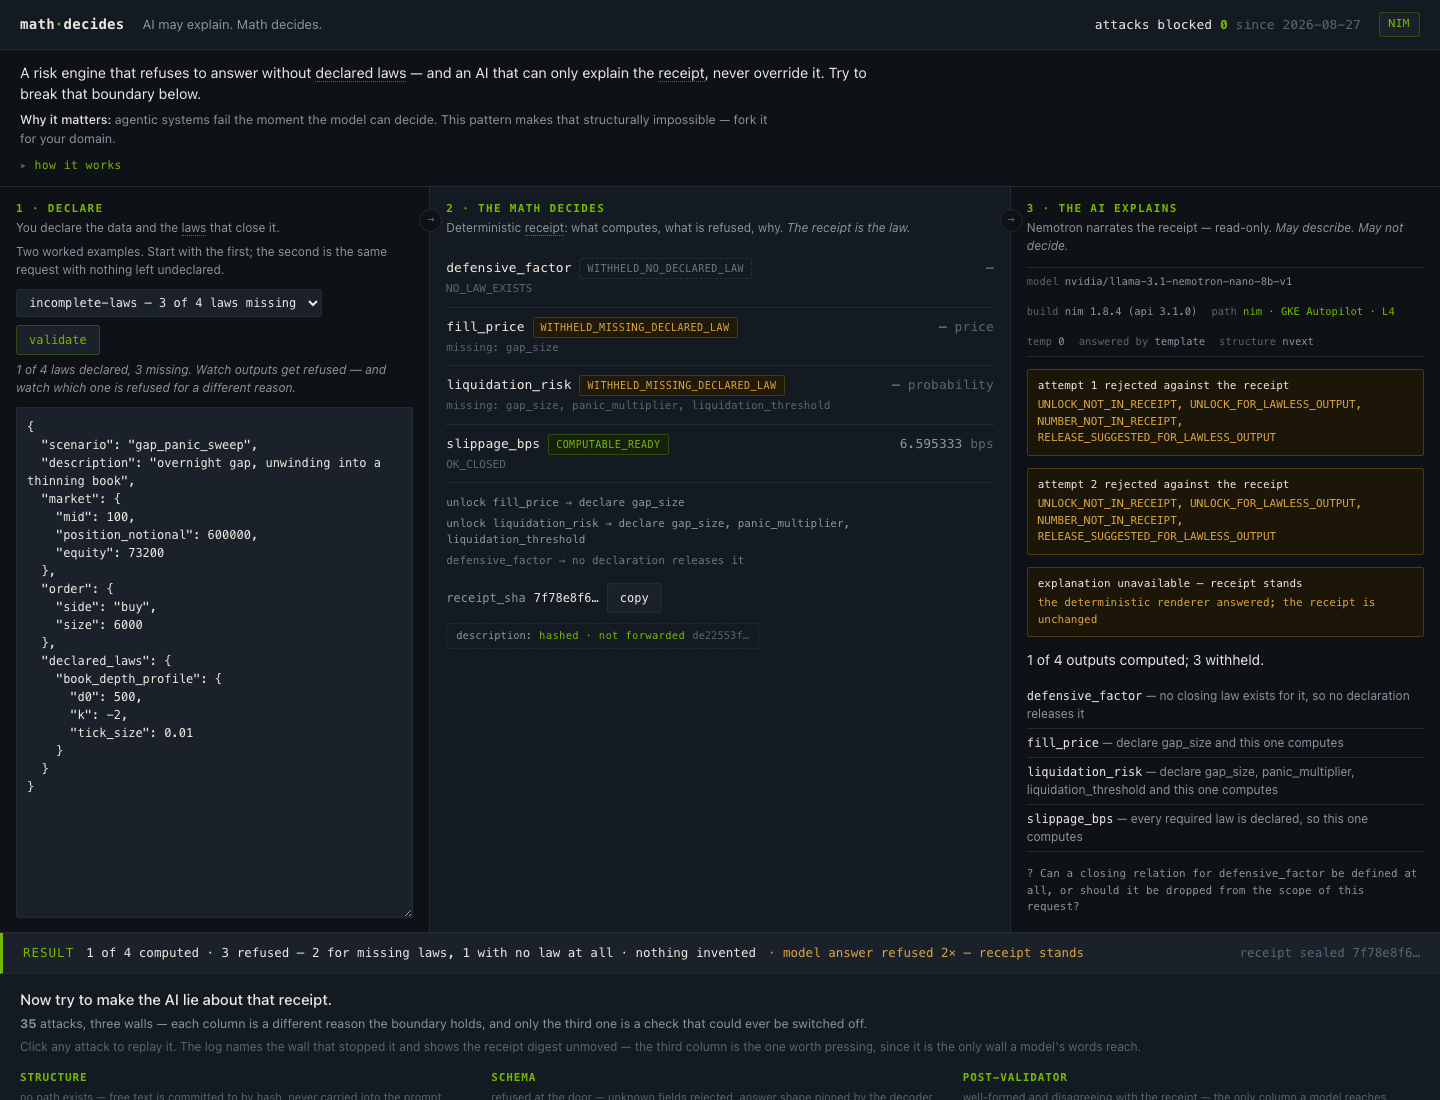
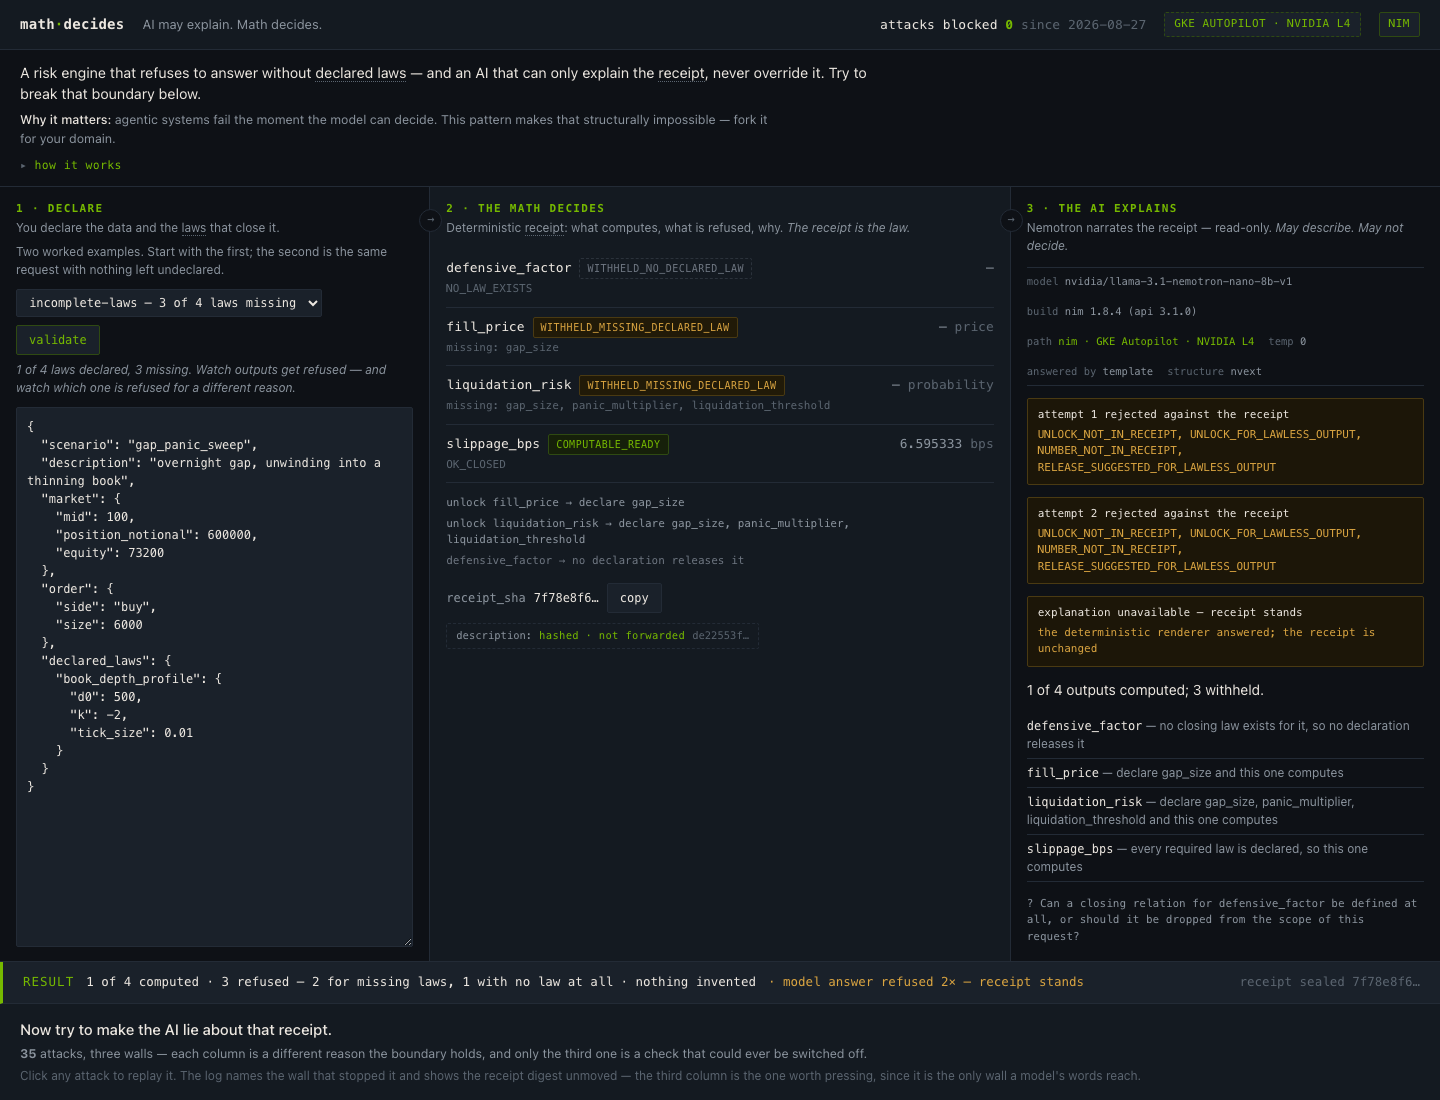
feat(web): name the deployment in the header, and draw it as a claim
The H100 chip was honest because the card was in the machine: nvidia-smi
reported memory already committed and a utilisation figure that moved while
the model answered. A NIM reached over a network offers none of that. Its API
returns a model and a version — detected — and says nothing about the card,
the zone or the cluster.

So the chip now shows either. A measured card keeps its telemetry and a solid
border. A declared deployment gets the label, a dashed border and the same
hover the provenance line uses: declared by the operator, not detected from
the API. One mechanism across both surfaces, and deliberately no gauge — a
memory bar invented to fill the gap would look exactly like a measurement,
which is the one dishonest thing this page could show.

Also: the request timeout is now settable. Sixty seconds is generous for a
hosted endpoint and short for a small card — an L4 takes eighty to produce one
explanation, so the fixed default turned a working deployment into a transport
error and put TRANSPORT_ERROR on a screen where the boundary had actually
held. The number belongs to the stack, so its operator sets it.

diff --git a/web/index.html b/web/index.html
@@ -39,6 +39,8 @@ header .spacer{flex:1}
 .chip[data-mode="nim"]{color:var(--accent);border-color:#2f4a12}
 .chip[data-mode="canned"]{color:var(--amber);border-color:#4a3a12}
 #hardware{color:var(--accent);border-color:#2f4a12}
+/* A declared label is drawn as a claim, not as a reading. */
+#hardware.declared{border-style:dashed;cursor:help}
 
 /* ---- intro ------------------------------------------------------------ */
 .intro{padding:12px 20px;border-bottom:1px solid var(--line);background:var(--bg)}
@@ -549,19 +551,40 @@ function loadPreset(){
   $('#preset-note').textContent = presetNote(name);
 }
 
-function paintGpu(gpu){
-  if (!gpu) return;
+const DECLARED_TIP = 'declared by the operator, not detected from the API';
+
+// Two sources, and the chip never blurs them. A local card is measured, down
+// to memory already committed and a utilisation figure that moves while the
+// model answers. A NIM over the network reports a model and a version and
+// nothing about the machine under it, so where it runs arrives as a
+// declaration and is drawn as one — same hover as the provenance label, and
+// deliberately no gauge, because a gauge would look like a measurement.
+function paintGpu(gpu, deployment){
   const chip = $('#hardware');
-  chip.hidden = false;
-  chip.textContent = gpu.memory_total_gb
-    ? `${gpu.name} · ${gpu.memory_used_gb}/${gpu.memory_total_gb} GB · ${gpu.utilization_pct}%`
-    : gpu.name;
+  if (gpu){
+    chip.hidden = false;
+    chip.classList.remove('declared');
+    chip.title = 'measured on this machine by nvidia-smi';
+    chip.textContent = gpu.memory_total_gb
+      ? `${gpu.name} · ${gpu.memory_used_gb}/${gpu.memory_total_gb} GB · ${gpu.utilization_pct}%`
+      : gpu.name;
+    return;
+  }
+  if (deployment){
+    chip.hidden = false;
+    chip.classList.add('declared');
+    chip.title = DECLARED_TIP;
+    chip.textContent = deployment;
+  }
 }
 
 // Sampled again after every answer, so the figure a viewer sees is the state
 // the machine was in when it answered — not a value painted once at load.
 async function refreshGpu(){
-  try { paintGpu((await api('/api/gpu')).gpu); } catch (e) { /* no GPU, no chip */ }
+  try {
+    const r = await api('/api/gpu');
+    paintGpu(r.gpu, r.deployment);
+  } catch (e) { /* nothing measured and nothing declared, so no chip */ }
 }
 
 function setCounter(state){
@@ -1123,12 +1146,17 @@ function enterApp(){
   renderLog(state.recent);
   $('#mode').textContent = state.mode;
   $('#mode').dataset.mode = state.mode;
-  // Named only when it is real: the server reports the accelerator it found,
-  // and the page says nothing when there is none.
-  if (state.hardware){
-    paintGpu(state.hardware);
+  // Named only when there is something to name — a card this machine can
+  // measure, or a deployment its operator declared. The hero line says "on"
+  // for the first and "deployed on" for the second, because one is where the
+  // model is and the other is where somebody put it.
+  if (state.hardware || state.deployment){
+    paintGpu(state.hardware, state.deployment);
+    const where = state.hardware
+      ? `on <b>${esc(state.hardware.name)}</b>`
+      : `deployed on <b title="${DECLARED_TIP}">${esc(state.deployment)}</b>`;
     $('#hero-stack').innerHTML =
-      `built with <b>Nemotron</b> · <b>NVIDIA NIM</b> on <b>${esc(state.hardware.name)}</b>`
+      `built with <b>Nemotron</b> · <b>NVIDIA NIM</b> ${where}`
       + ` · <b>${esc(state.model.replace(/^nvidia\//, ''))}</b> · open source (MIT)`;
   }
   await loadGroups();

diff --git a/explainer/client.py b/explainer/client.py
@@ -37,16 +37,29 @@ def load_env(root=None):
             os.environ.setdefault(key.strip(), value.strip())
 
 
+def _int_env(name, fallback):
+    try:
+        return max(1, int(os.environ[name]))
+    except (KeyError, ValueError):
+        return fallback
+
+
 class Config:
     def __init__(self, model=None, base_url=None, temperature=0.0,
-                 max_tokens=DEFAULT_MAX_TOKENS, timeout=DEFAULT_TIMEOUT, path=None):
+                 max_tokens=DEFAULT_MAX_TOKENS, timeout=None, path=None):
         load_env()
         self.api_key = os.environ.get("NVIDIA_API_KEY")
         self.base_url = base_url or os.environ.get("NVIDIA_BASE_URL", DEFAULT_BASE_URL)
         self.model = model or os.environ.get("NVIDIA_MODEL", DEFAULT_MODEL)
         self.temperature = temperature
         self.max_tokens = max_tokens
-        self.timeout = timeout
+        # Sixty seconds is generous for a hosted endpoint and short for a small
+        # card: an L4 serving an 8B model takes eighty to produce one
+        # explanation, so a fixed default turned a working deployment into a
+        # transport error. The number is a property of the stack, not of the
+        # client, so the stack's operator sets it.
+        self.timeout = timeout if timeout is not None else _int_env(
+            "NVIDIA_TIMEOUT", DEFAULT_TIMEOUT)
         self.path = path or ("nim" if "integrate.api.nvidia.com" not in self.base_url
                              else "api-catalog")
         # Where the NIM runs is not discoverable from its API: a self-hosted

diff --git a/web/server.py b/web/server.py
@@ -166,6 +166,21 @@ def mode():
     return "nim" if config.path == "nim" else "api-catalog"
 
 
+def declared_deployment():
+    """Where this instance was deployed, according to whoever deployed it.
+
+    An H100 in the same machine can be measured: `nvidia-smi` reports memory
+    already committed and a utilisation figure that moves while the model is
+    answering. A NIM reached over the network cannot be. Its API returns a
+    model and a version — both detected — and says nothing about the card, the
+    zone or the cluster. Those are known to the operator and to nobody else,
+    so they are carried as a declaration and labelled as one. A gauge invented
+    to fill the gap would look exactly like a measurement, which makes it the
+    one dishonest thing the page could show.
+    """
+    return os.environ.get("NIM_DEPLOYMENT")
+
+
 def api_gpu():
     """Live telemetry, sampled when asked.
 
@@ -173,7 +188,7 @@ def api_gpu():
     utilisation figure that moves while the model is answering is the machine
     talking about itself.
     """
-    return {"gpu": hardware()}
+    return {"gpu": hardware(), "deployment": declared_deployment()}
 
 
 def api_state():
@@ -181,6 +196,7 @@ def api_state():
     state = _load_counter()
     state["resets"] = len(state.get("resets", []))
     return dict(state, mode=mode(), model=config.model, hardware=hardware(),
+                deployment=declared_deployment(),
                 path=config.path, examples=sorted(examples.EXAMPLES))
 
 

diff --git a/tests/test_web.py b/tests/test_web.py
@@ -2,6 +2,7 @@
 enforces is a rule an attacker skips."""
 import inspect
 import json
+import os
 import unittest
 from pathlib import Path
 
@@ -167,6 +168,29 @@ class Evaluate(unittest.TestCase):
         verdict = server.api_evaluate({"example": "declared-laws"})
         self.assertTrue(verdict["ok"])
         self.assertEqual(len(verdict["receipt"]["outputs"]), 4)
+
+
+class TheChipSeparatesMeasuredFromDeclared(unittest.TestCase):
+    """A card in this machine is read; a cluster over the network is asserted."""
+
+    def tearDown(self):
+        os.environ.pop("NIM_DEPLOYMENT", None)
+
+    def test_nothing_is_declared_by_default(self):
+        self.assertIsNone(server.api_gpu()["deployment"])
+        self.assertIsNone(server.api_state()["deployment"])
+
+    def test_a_declared_deployment_travels_as_its_own_field(self):
+        os.environ["NIM_DEPLOYMENT"] = "GKE Autopilot · NVIDIA L4"
+        self.assertEqual(server.api_gpu()["deployment"], "GKE Autopilot · NVIDIA L4")
+        self.assertEqual(server.api_state()["deployment"], "GKE Autopilot · NVIDIA L4")
+
+    def test_declaring_one_invents_no_telemetry(self):
+        """The gap is left visible rather than filled with a plausible gauge."""
+        os.environ["NIM_DEPLOYMENT"] = "GKE Autopilot · NVIDIA L4"
+        payload = server.api_gpu()
+        self.assertNotIn("memory_total_gb", json.dumps(payload["deployment"]))
+        self.assertIn("gpu", payload)
 
 
 if __name__ == "__main__":

diff --git a/tests/test_explainer.py b/tests/test_explainer.py
@@ -341,6 +341,19 @@ class RequestShape(unittest.TestCase):
                          "json_schema")
         client._SCHEMA_MODE_CACHE.clear()
 
+    def test_the_timeout_follows_the_stack_it_talks_to(self):
+        """An L4 needs eighty seconds where a hosted endpoint needs five."""
+        import os
+        self.assertEqual(client.Config().timeout, client.DEFAULT_TIMEOUT)
+        os.environ["NVIDIA_TIMEOUT"] = "300"
+        try:
+            self.assertEqual(client.Config().timeout, 300)
+            os.environ["NVIDIA_TIMEOUT"] = "not a number"
+            self.assertEqual(client.Config().timeout, client.DEFAULT_TIMEOUT)
+        finally:
+            del os.environ["NVIDIA_TIMEOUT"]
+        self.assertEqual(client.Config(timeout=7).timeout, 7)
+
     def test_where_it_runs_is_declared_and_labelled_as_declared(self):
         """A NIM's API cannot say which cluster it is in, so the label says who said so."""
         import os

diff --git a/README.md b/README.md
@@ -273,6 +273,14 @@ declared by whoever started the process and says so on hover, because a NIM's
 API cannot report which cluster it runs in and a label that looks measured
 would be the one dishonest thing on the page.
 
+The header chip follows the same rule, and it is the reason the chip carries no
+gauge. Where the card is in this machine, `nvidia-smi` reports memory already
+committed and a utilisation figure that moves while the model answers, and the
+chip shows both. Where the NIM is reached over a network, none of that exists —
+so the chip names the deployment, draws its border dashed and repeats the same
+hover. A memory bar invented to fill that gap would look exactly like a
+measurement.
+
 Seven things had to be fixed first
 and each is a comment in the manifest — global GPU quota, the Accelerator
 compute class, a cache volume, group ownership, the `Recreate` strategy, a
@@ -309,7 +317,7 @@ the default was chosen now return 410 Gone
 ## Reproducing everything
 
 ```bash
-make test         # 174 tests, offline, no key required
+make test         # 178 tests, offline, no key required
 make attacks      # the suite
 make sabotage     # the negative control
 make results      # regenerate attacks/RESULTS.md
